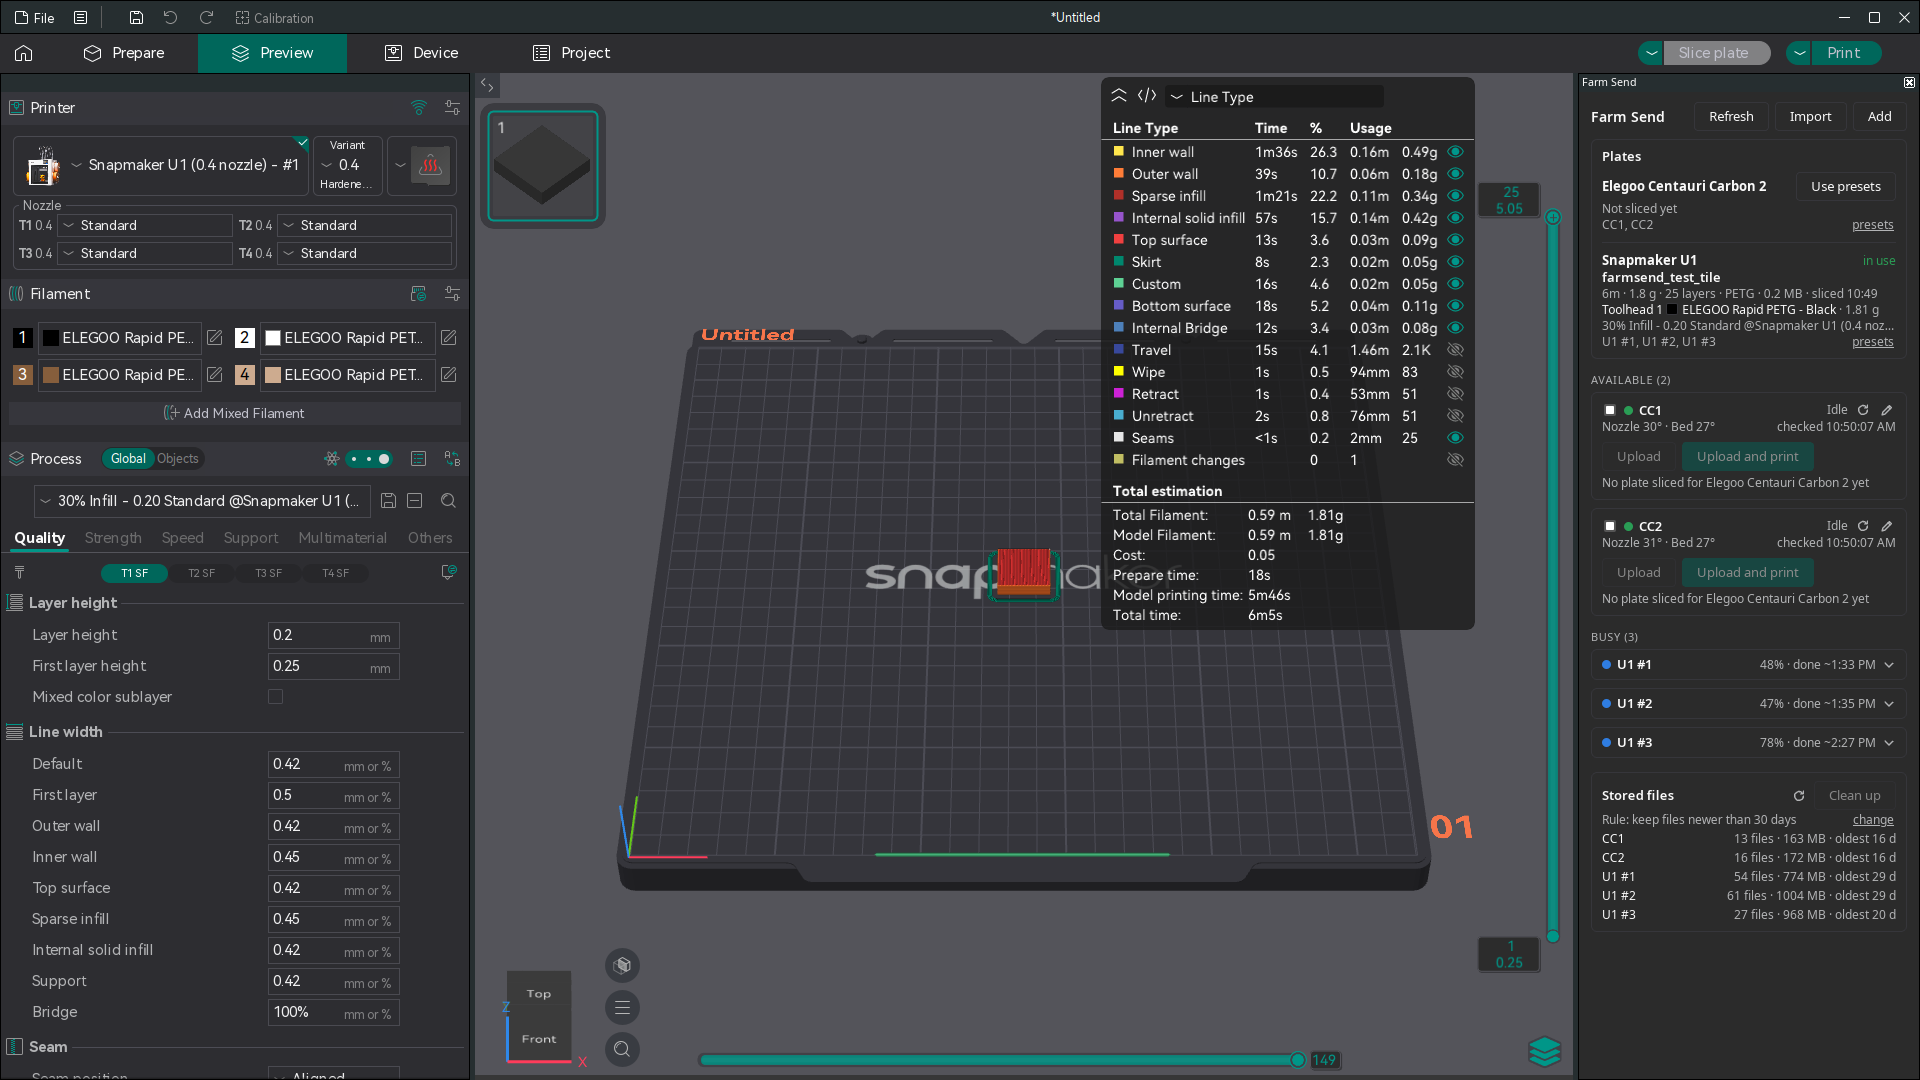
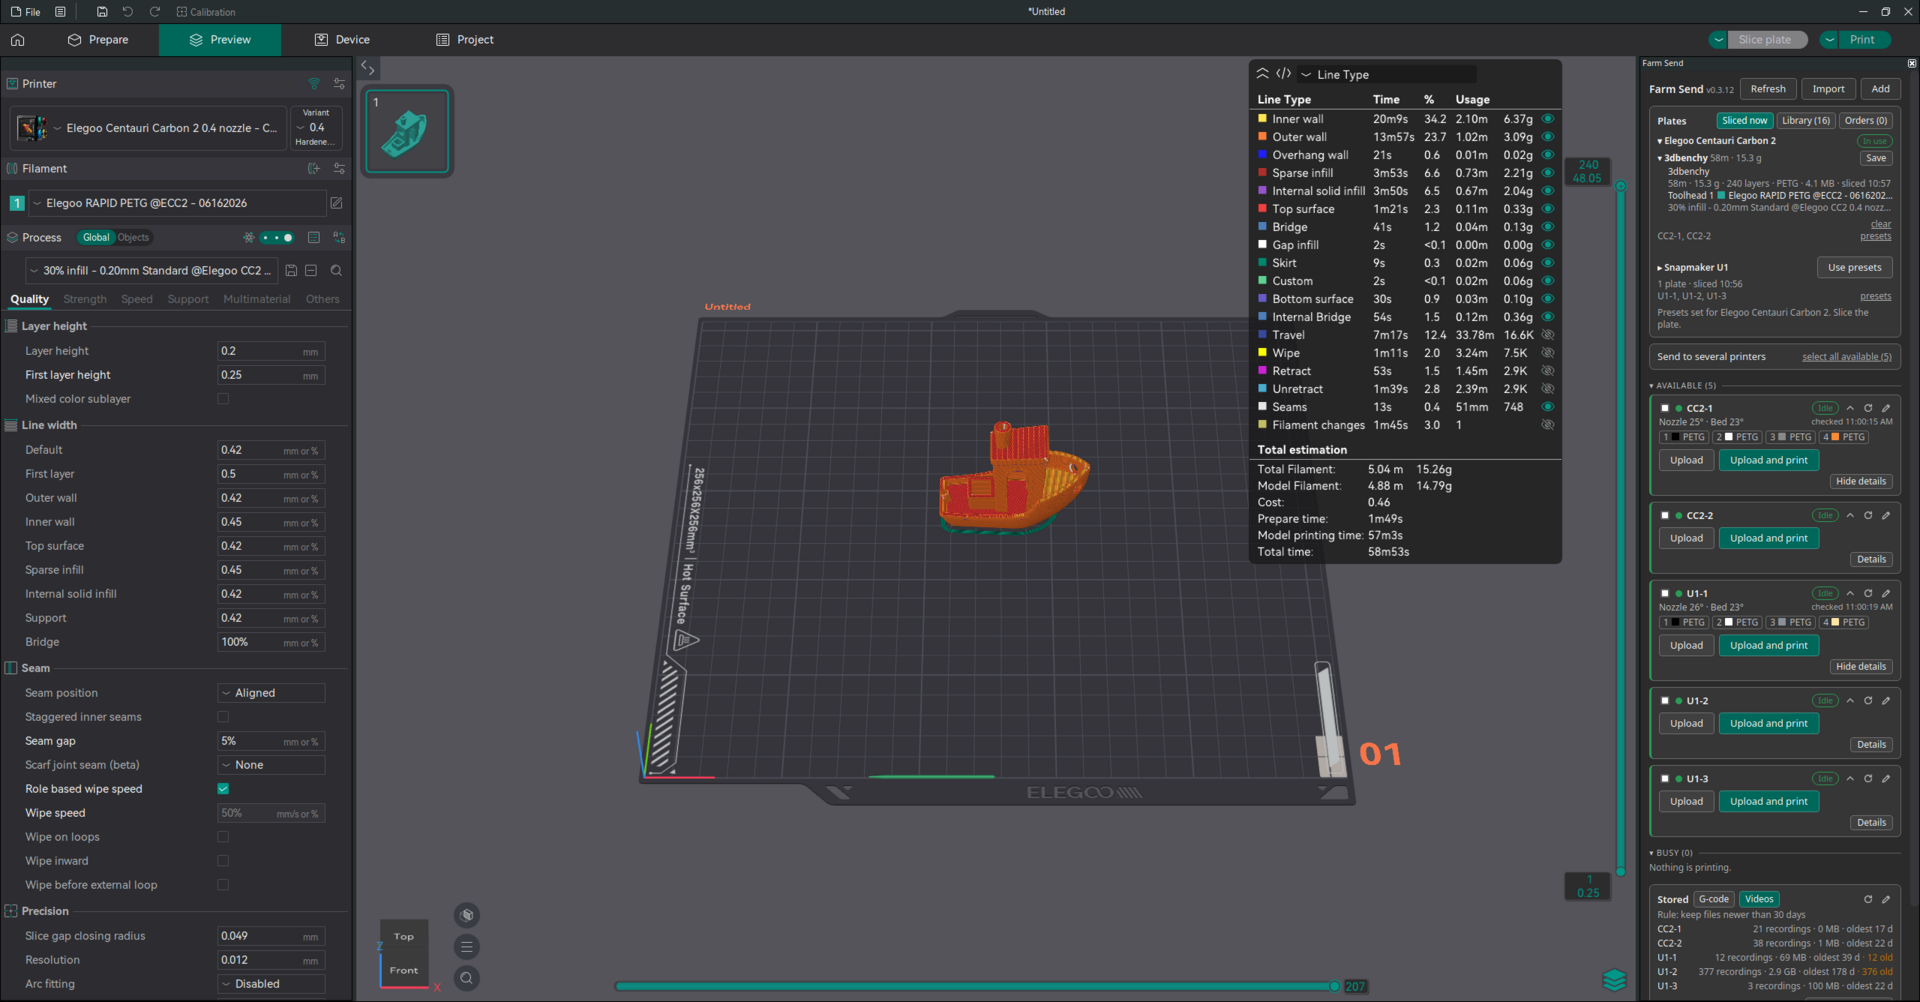
README: new screenshots for 0.3.12 and text that matches the panel
New panel, Library and Videos images taken in OrcaSlicer 2.5.1 with a
3DBenchy sliced for both printer types. Text now covers Details on the
cards, folding groups, the pencil for the clean-up rule, CC2 time-lapse
clean-up by layer count, and the hardware checks from 2026-11-20 and 21.

Changed region(s): [[0.0, 0.0, 1.0, 1.0]]

diff --git a/README.md b/README.md
@@ -2,13 +2,13 @@
 
 A docked panel for small print farms: slice a plate once per printer type, then upload it and start it on several printers at once, with live status for every printer.
 
-![Farm Send panel](docs/panel.png)
+<img src="docs/panel.png" alt="Farm Send panel: a 3DBenchy sliced for both printer types, five idle printers, two of them with Details open" width="362">
 
 - **Elegoo Centauri Carbon 2**: upload and start the print. Stock OrcaSlicer can upload to a Centauri Carbon 2 but cannot start it.
 - **Snapmaker U1**: upload and start the print, with bed leveling, flow calibration and time-lapse options.
 - **Other Moonraker / Klipper printers**: upload and a plain start. Not tested beyond the U1.
 
-Each printer card shows state, progress, time left with the expected finish time, temperatures and when it was last checked. Status updates on its own every few seconds; **Refresh** in the header asks every printer now, and the refresh icon on a card asks that one.
+Each printer card shows its state, and while printing its progress, time left and expected finish time. **Details** on a card adds temperatures, when it was last checked, and what is loaded: the rolls of a Centauri Carbon 2's Canvas unit or the four toolheads of a U1, as small tags with color and material. Status updates on its own every few seconds; **Refresh** in the header asks every printer now, and the refresh icon on a card asks that one. The version is shown next to the panel title.
 
 While the panel is open, OrcaSlicer shows a notification when a print finishes, is cancelled, pauses, or a printer stops with an error. The same note stays on the printer card until the printer moves on. Nothing is reported while OrcaSlicer is closed, and the notification appears inside OrcaSlicer, not as a system notification.
 
@@ -32,7 +32,7 @@ The printer protocols were worked out from the vendors' own clients, not from pu
 The panel reads top to bottom in the order you work:
 
 1. **Plates** has one row per printer type. Each row shows the plate held for that type (time, grams, layers, toolhead and color), or "Not sliced yet". Slice once for each type you want to print on.
-2. The printer list is grouped: **Needs attention** (paused, error, offline, or a finished print still on the bed), **Available** (idle with a clear bed) and **Busy** (one line each; click a line for details).
+2. The printer list is grouped: **Needs attention** (paused, error, offline, or a finished print still on the bed), **Available** (idle with a clear bed) and **Busy** (one line each; click a line for details). Each group folds with the arrow in front of its name, and each card folds with the arrow in its corner.
 3. On a printer card click **Upload**, or **Upload and print**, and confirm. The printer gets the plate sliced for its type.
 
 To send everything at once, click **select all available**, then **Upload and print on all**.
@@ -50,6 +50,8 @@ If a preset has unsaved edits, OrcaSlicer shows its normal save or discard dialo
 The plugin cannot press Slice for you.
 
 **Library**
+
+<img src="docs/library.png" alt="Library view: folders of kept plates, each with its printer type, time, grams and a Send button" width="346">
 
 For parts you print again and again. On a sliced plate's row click **Save**, name the item and enter how many parts are on the plate (the count is filled in when the G-code labels its parts). A plate already in the library shows **saved**.
 The plate is kept on this computer, in the plugin's own data folder, and survives closing the project and restarting OrcaSlicer.
@@ -86,11 +88,17 @@ After **Slice all**, every plate is held for its printer type, one line each; cl
 
 **Stored files and cleanup**
 
-The **Stored files** box at the bottom lists every printer with its file count, size and oldest file, and how many files count as old under your rule.
-**change** sets the rule: keep files newer than N days, or keep the newest N files. **Clean up** shows what will be removed per printer and asks before deleting.
+<img src="docs/videos.png" alt="Stored box on its Videos tab: recordings per printer, how many are old under the rule, and Clean up" width="346">
+
+The **Stored** box at the bottom lists every printer with its file count, size and oldest file, and how many files count as old under your rule.
+The pencil next to refresh sets the rule: keep files newer than N days, or keep the newest N files. **Clean up** shows what will be removed per printer and asks before deleting.
 The file a printer is printing is always kept. A Centauri Carbon 2 is only cleaned while idle. Deleted files cannot be brought back.
 
-The **Videos** tab of the same box does this for time-lapse recordings on Snapmaker U1s, with its own rule. Each recording is removed together with its pictures, only when you click Clean up. The recording of a print that is running and the camera's live picture are kept. On a Centauri Carbon 2 a recording is the frames of one finished print, plus its video if one was exported. Removing it also removes that print from the printer's history list, works only while the printer is idle, and relies on a path the printer does not officially offer (verified on two printers on 2026-11-21); a firmware update may stop it.
+The **Videos** tab of the same box does this for time-lapse recordings, with its own rule. Recordings are removed only when you click Clean up, never automatically.
+
+- **Snapmaker U1**: each recording is removed together with its pictures. The recording of a print that is running and the camera's live picture are kept.
+- **Centauri Carbon 2**: a recording is the frames of one finished print (one per layer), plus its video if one was exported. Farm Send reads the print's layer count from its G-code file and removes just those frames, usually in one request; when the G-code is already gone from the printer it removes the first 3000 frames. Removing a recording also removes that print from the printer's history list. It works only while the printer is idle and relies on a path the printer does not officially offer (verified on two printers on 2026-11-21), so a firmware update may stop it. Frame deletions cannot be checked one by one: the printer answers "ok" either way.
+
 "Clean automatically, once a day" is off by default and only runs while the panel is open, so it does not replace a scheduled job for an unattended farm.
 A Centauri Carbon 2 holding 250 or more files shows a warning on its card: uploads began failing on printers holding 355 and 516 files.
 
@@ -154,9 +162,9 @@ python3 tests/hardware_check.py --upload "U1 #2"   # 1 KB upload, list, delete. 
 
 ## What has been verified, and how
 
-Tested 2026-11-18 and 19 on OrcaSlicer 2.5.1 (Linux) with two Centauri Carbon 2s ("CC1", "CC2") and three Snapmaker U1s.
+Tested 2026-11-18 to 21 on OrcaSlicer 2.5.1 (Linux) with two Centauri Carbon 2s (called "CC1" and "CC2" in the older rows, "CC2-1" and "CC2-2" now) and three Snapmaker U1s.
 
-In-app checks ran in an OrcaSlicer instance on a hidden virtual display (Xvfb), started through the desktop launcher.
+The first in-app checks ran in an OrcaSlicer instance on a hidden virtual display (Xvfb), started through the desktop launcher. Since 2026-11-20 they run in a visible OrcaSlicer window.
 
 | What | How it was verified |
 |---|---|
@@ -182,3 +190,7 @@ In-app checks ran in an OrcaSlicer instance on a hidden virtual display (Xvfb), 
 | Slice for U1, switch presets, slice for CC2, both plates kept | Inside OrcaSlicer 2.5.1 |
 | "Use presets" switching printer, filament slots and process, both directions | Inside OrcaSlicer 2.5.1 |
 | Select all available, grouped confirmation | Inside OrcaSlicer 2.5.1, cancelled before sending |
+| CC2 prints from the roll the slicer names | Real CC2-1 and CC2-2: started with filament 1 sent to roll 1, both switched from roll 2 to roll 1 before the first layer (2026-11-20) |
+| U1 time-lapse clean-up | Real U1s, from the panel (2026-11-21) |
+| CC2 time-lapse clean-up | Real CC2-1: 24 recordings down to 21, G-code untouched (2026-11-21) |
+| CC2 frames end at the layer count | Real CC2-1: frames 0 to 41 of a 37-layer print removed in one request; asking the printer to export it afterwards made no video (2026-11-21) |
